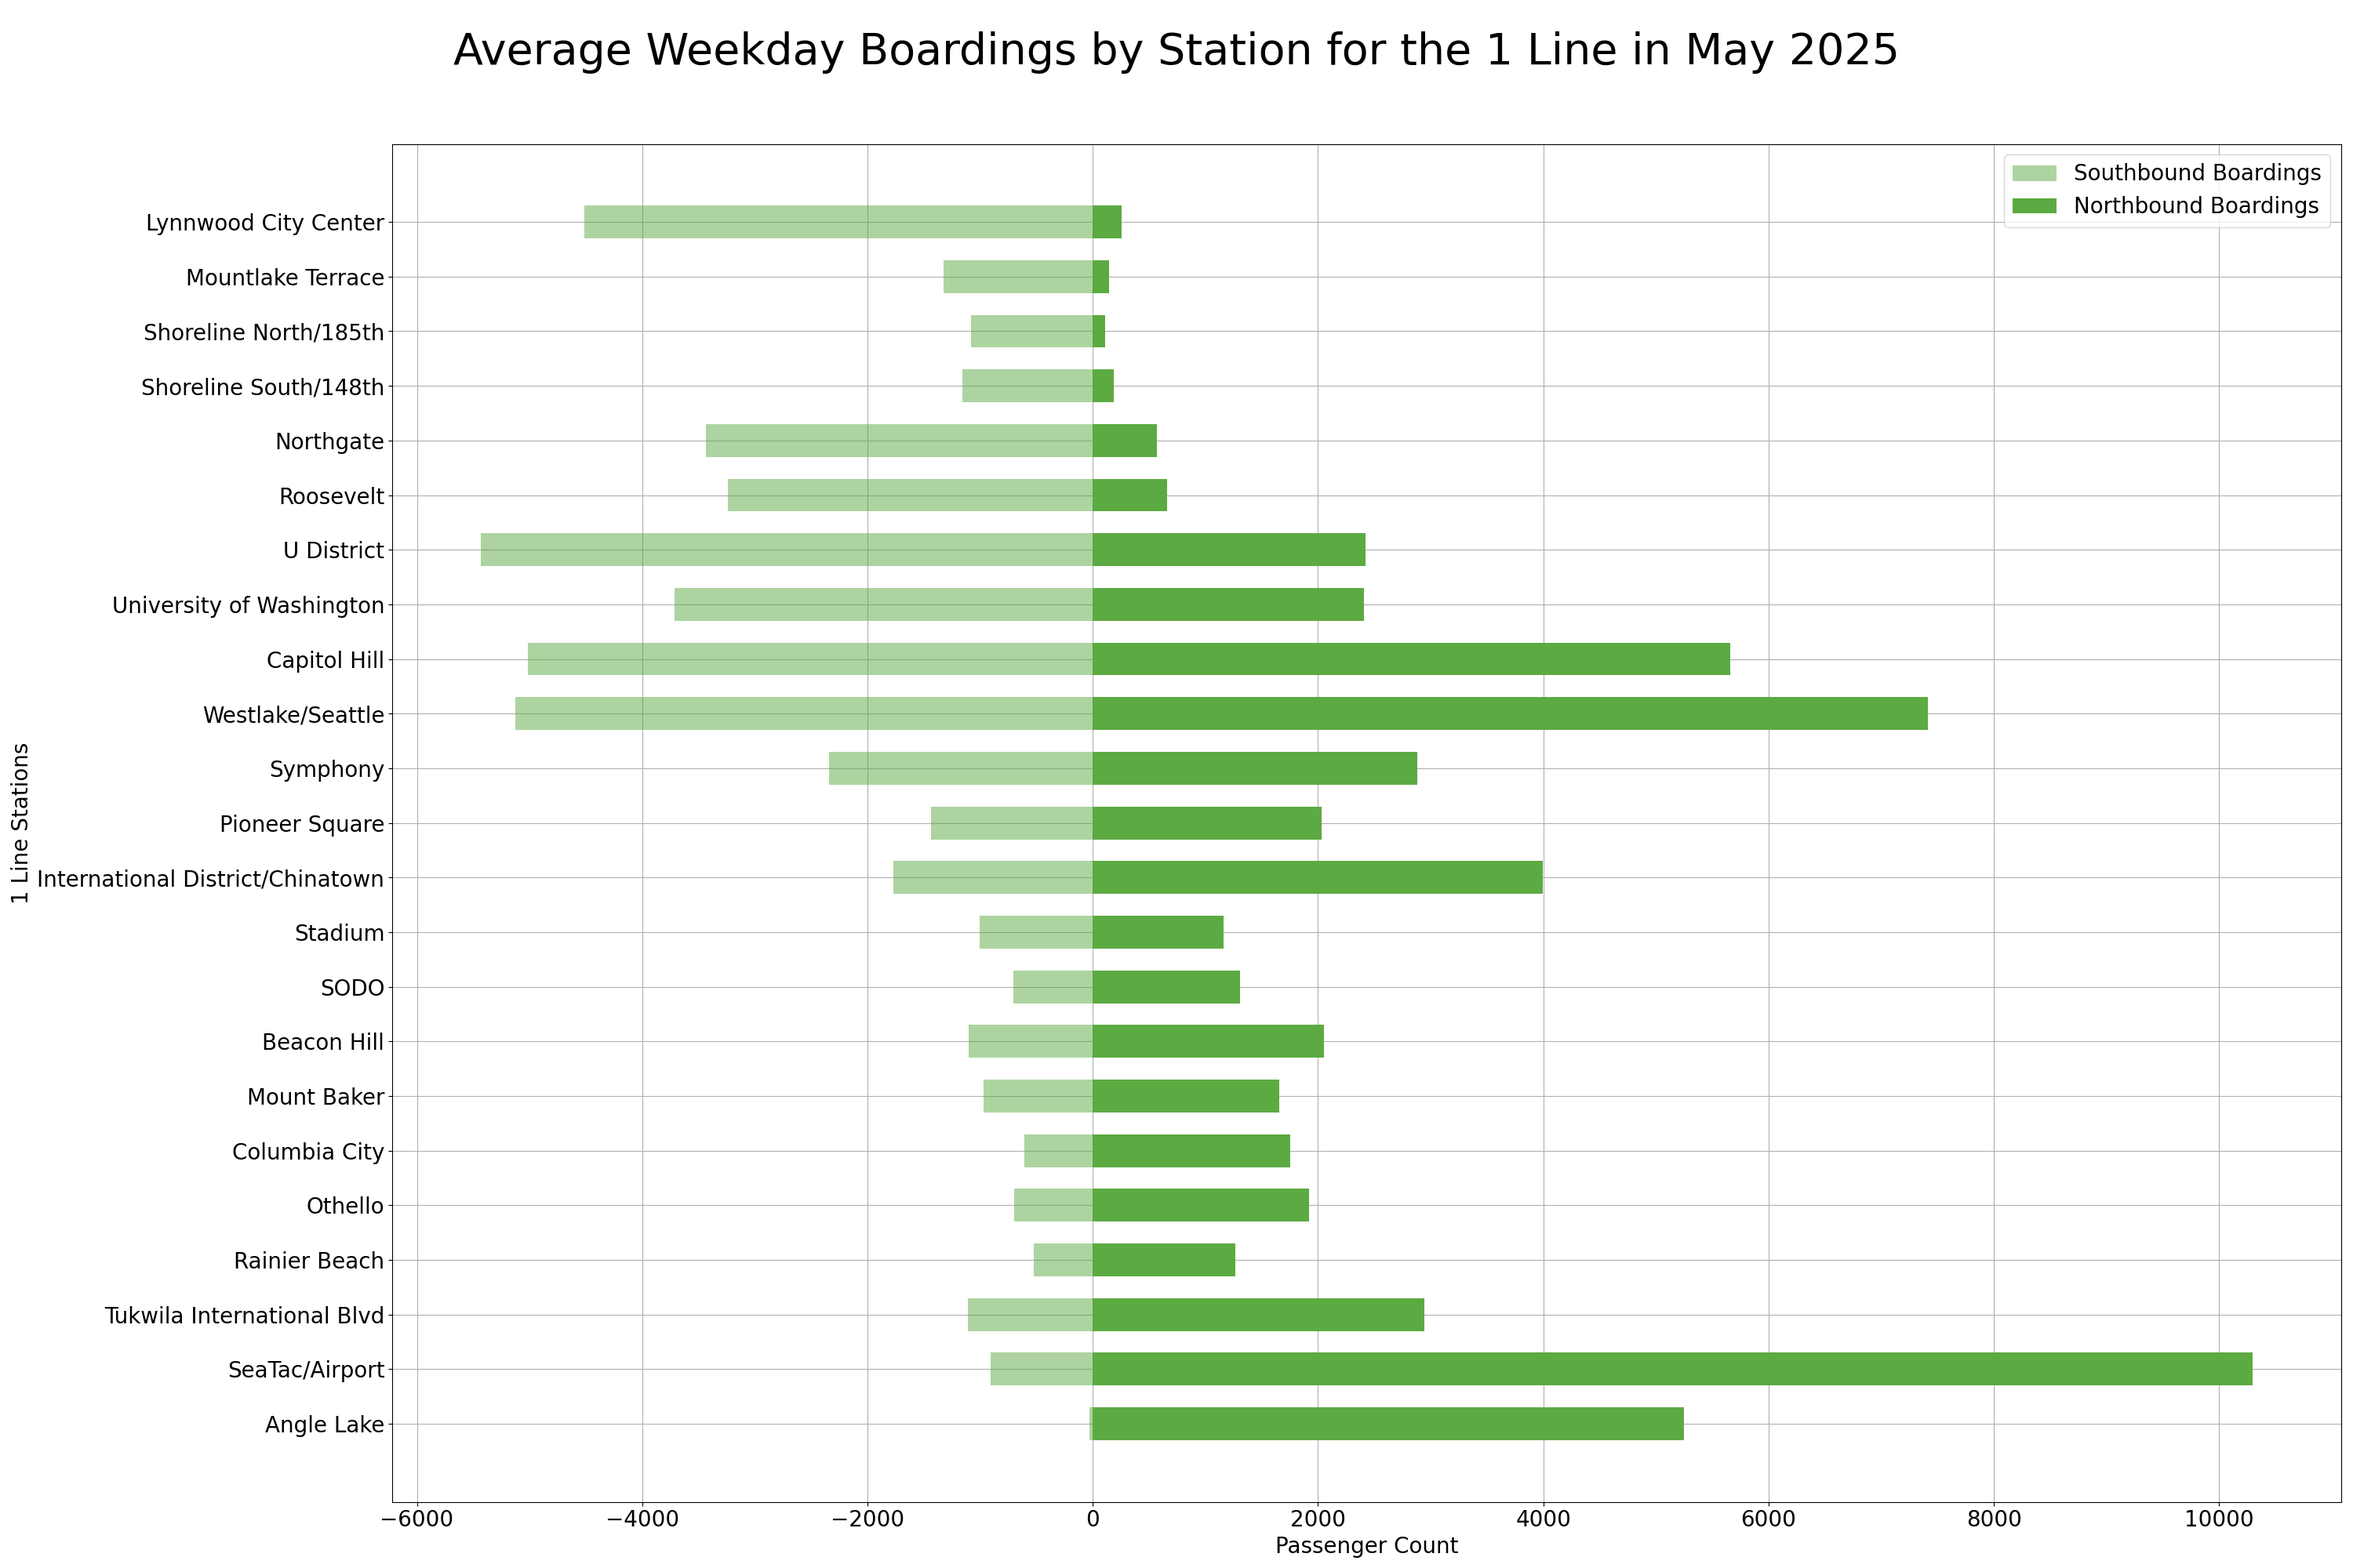
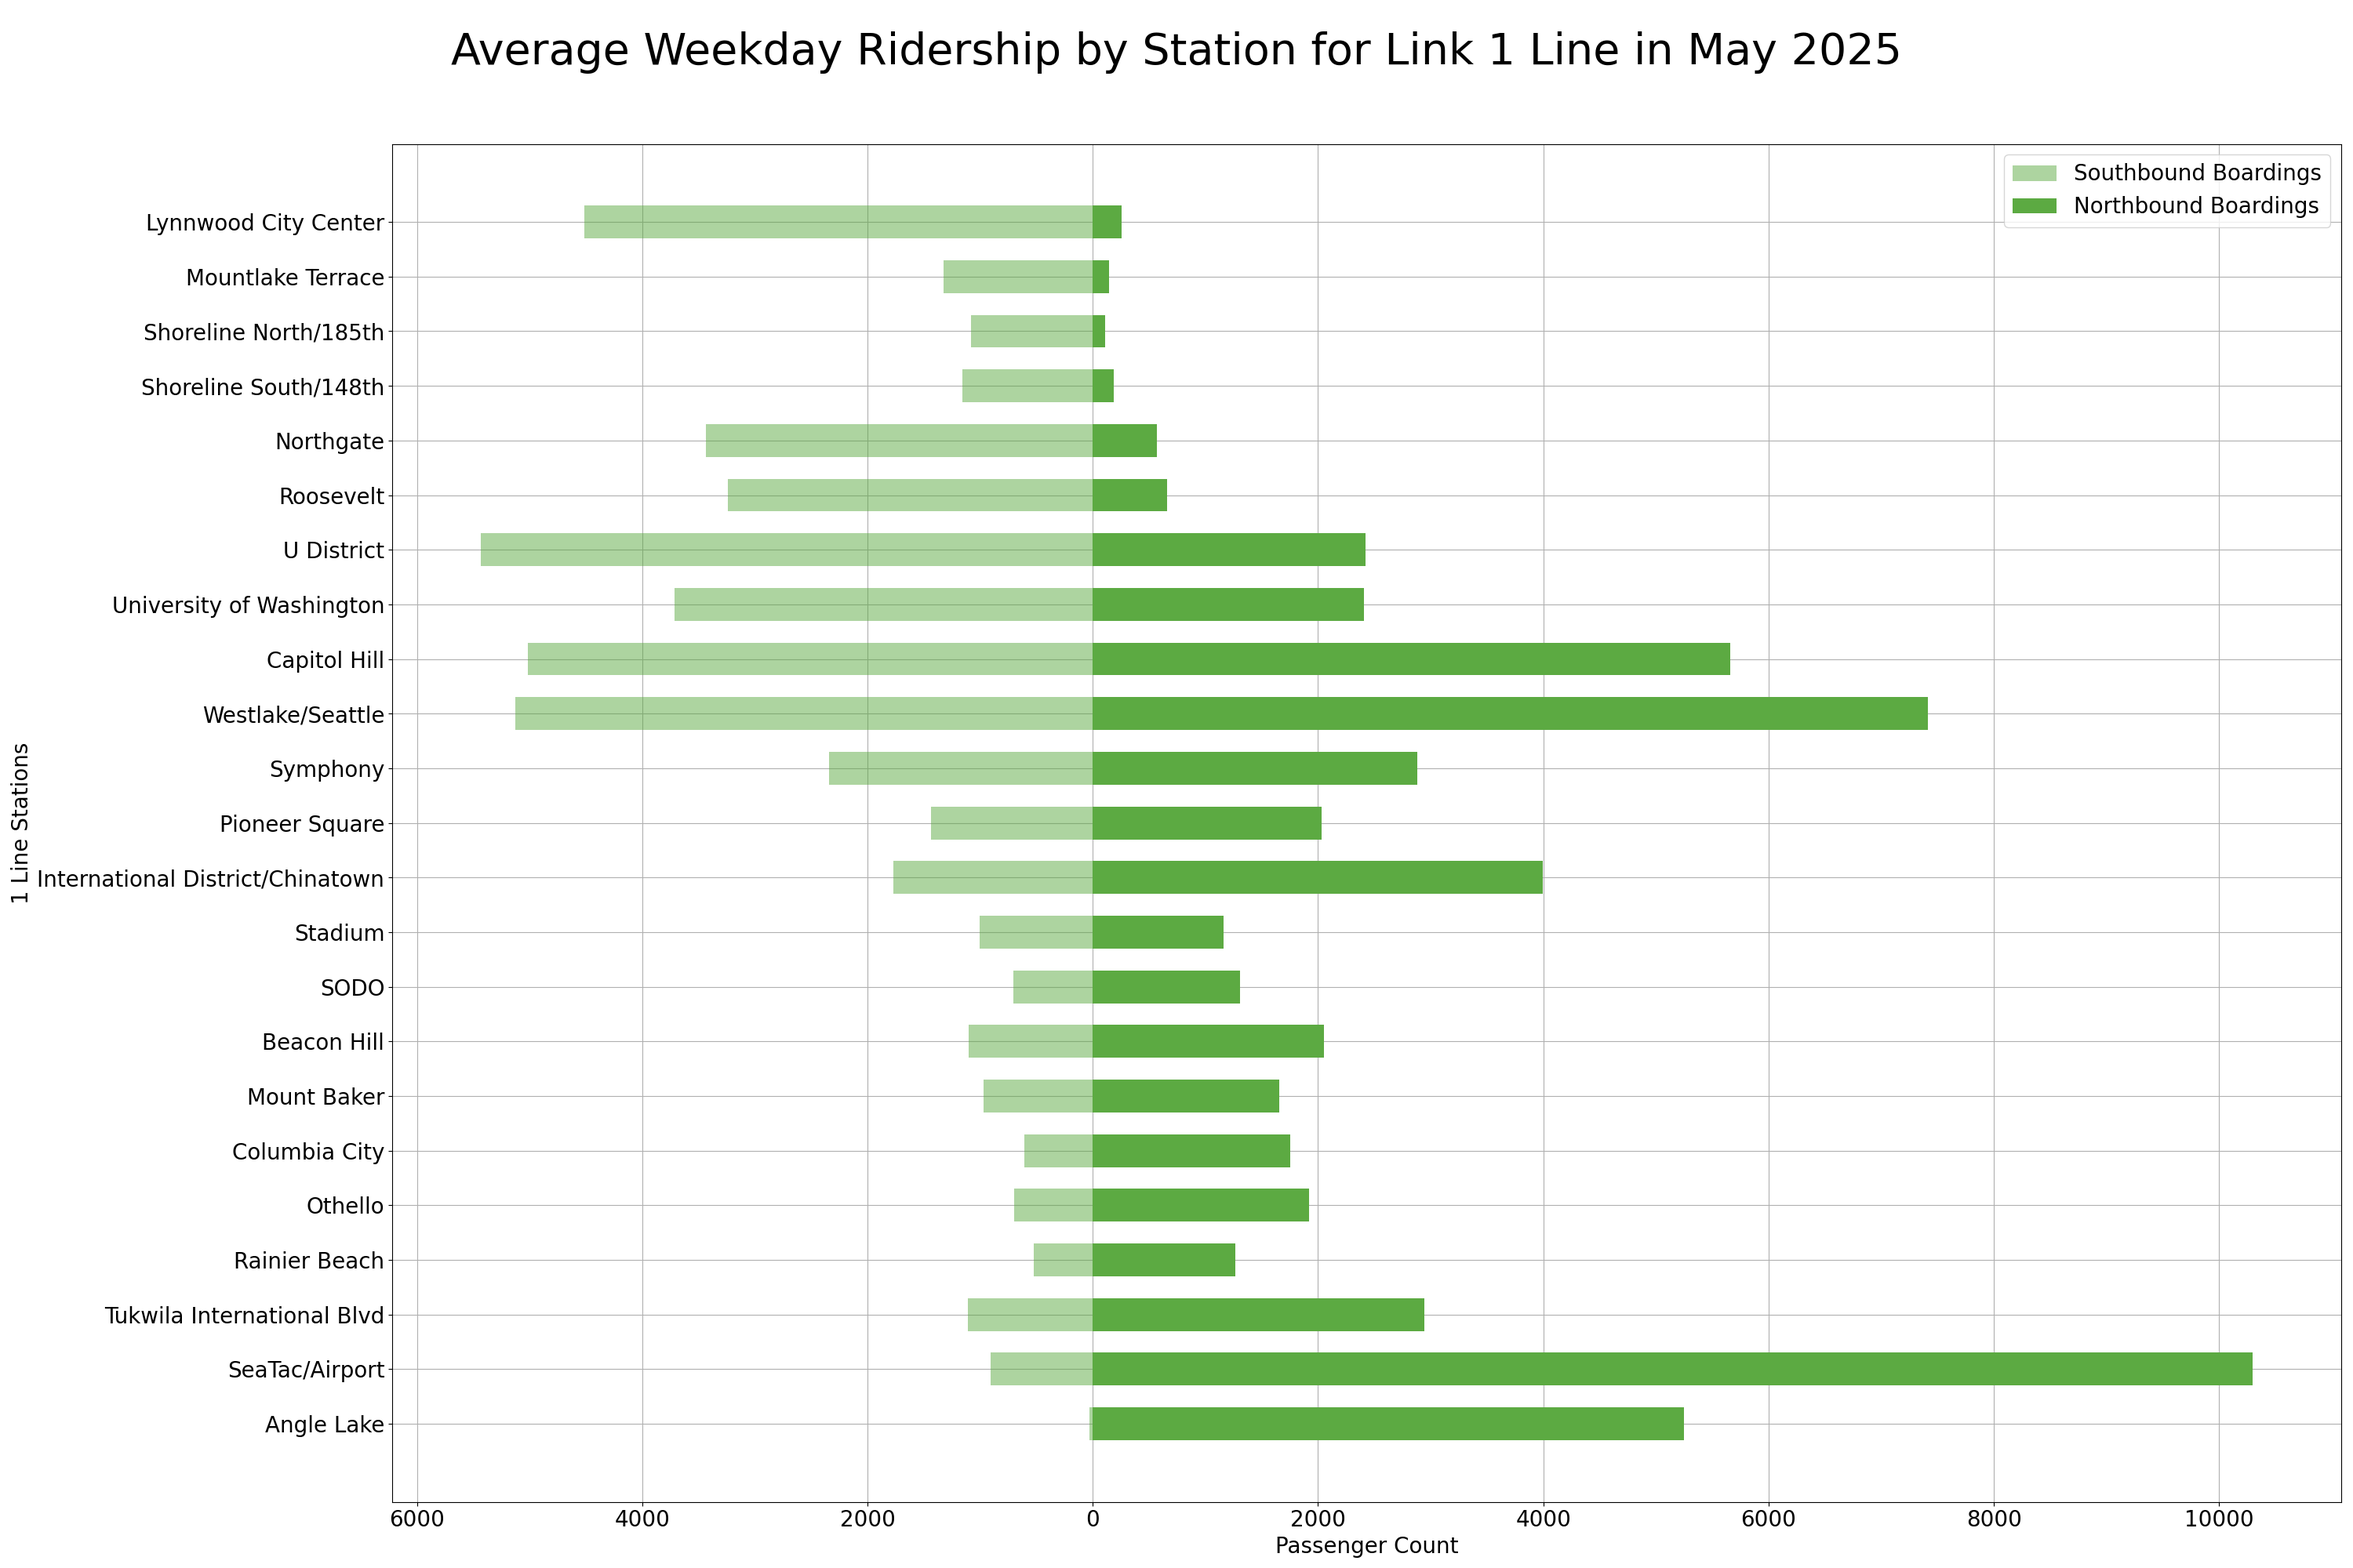
more graphs

diff --git a/src/preProcessScripts/linkLoadData.py b/src/preProcessScripts/linkLoadData.py
@@ -1,0 +1,58 @@
+import csv
+
+def calculate_train_load(data, direction="south"):
+    """
+    Calculate number of passengers on a train at each stop.
+    """
+    if direction == "south":
+        stops = sorted(data, key=lambda x: int(x["stationCode"]))
+    elif direction == "north":
+        stops = sorted(data, key=lambda x: int(x["stationCode"]), reverse=True)
+    else:
+        raise ValueError("direction must be 'south' or 'north'")
+
+    onboard = 0
+    result = []
+
+    for stop in stops:
+        north = int(stop["North"])
+        south = int(stop["South"])
+
+        if direction == "south":
+            boardings = south
+            alightings = north
+        else:  # northbound
+            boardings = north
+            alightings = south
+
+        onboard += boardings - alightings
+        onboard = max(onboard, 0)
+
+        result.append({
+            "Station": stop["Station"],
+            "Direction": direction,
+            "Boardings": boardings,
+            "Alightings": alightings,
+            "Onboard": onboard
+        })
+
+    return result
+
+
+def process_csv(input_file):
+    # Read CSV
+    with open(input_file, newline="", encoding="utf-8") as f:
+        reader = csv.DictReader(f)
+        data = [row for row in reader]
+
+    # Calculate loads
+    southbound = calculate_train_load(data, "south")
+    northbound = calculate_train_load(data, "north")
+
+    # Combine results
+    results = southbound + northbound
+
+    print(results)
+
+
+process_csv("../../data/stRouteData/1 Line/25/5/Weekday/perDirectionLinkBoardings.csv")

diff --git a/src/graphingScripts/graphModule.py b/src/graphingScripts/graphModule.py
@@ -753,7 +753,7 @@ def plot_link_data_may_2025(routeName):
 
 
   routeName = routeName
-  overallTitle = "Average Weekday Boardings by Station for the {0} in May 2025".format(routeName)
+  overallTitle = "Average Weekday Ridership by Station for Link {0} in May 2025".format(routeName)
   yAxis = "{0} Stations".format(routeName)
   xAxis = "Passenger Count"
 
@@ -802,6 +802,8 @@ def plot_link_data_may_2025(routeName):
       ax1.barh(i, entry["bBoarding"], color=plotColor, height=barSize, label=f"{directionB}bound Boardings" if i == 0 else "")
 
   ax1.legend(fontsize=legendTextSize)
+  xticks = ax1.get_xticks()
+  ax1.set_xticklabels([abs(int(x)) for x in xticks])
 
   plt.tight_layout(rect=[0, 0, 1, 0.95])
   # plt.show()

diff --git a/src/ridershipPatternScripts/ridershipPatternByRoute.py b/src/ridershipPatternScripts/ridershipPatternByRoute.py
@@ -15,12 +15,12 @@ from graphingScripts.graphModule import plot_trip_ridership, plot_daily_ridershi
 #   Service period: For KCM routes, put the SERVICE_CHANGE_NUM (eg: "213" or "241"). For CT routes, put the 2 digit month (eg: "08" or "11")
 #   Day Type: "Weekday", "Saturday", or "Sunday". KCM only has "Weekday" data
 #   Agency Id: KCM: 1, CT: 29, ST: 1 (ST should be 40 once I separate ST and KCM routes. For now, use 1 for ST. )
-routeNum = "1 Line"
+routeNum = "79"
 year = "24"
-servicePeriod = "6"
+servicePeriod = "243"
 dayType = "Weekday"
-agencyId = 40
-linkOverride = True
+agencyId = 1
+linkOverride = False
 
 if linkOverride:
   plot_link_data_may_2025(routeNum)
